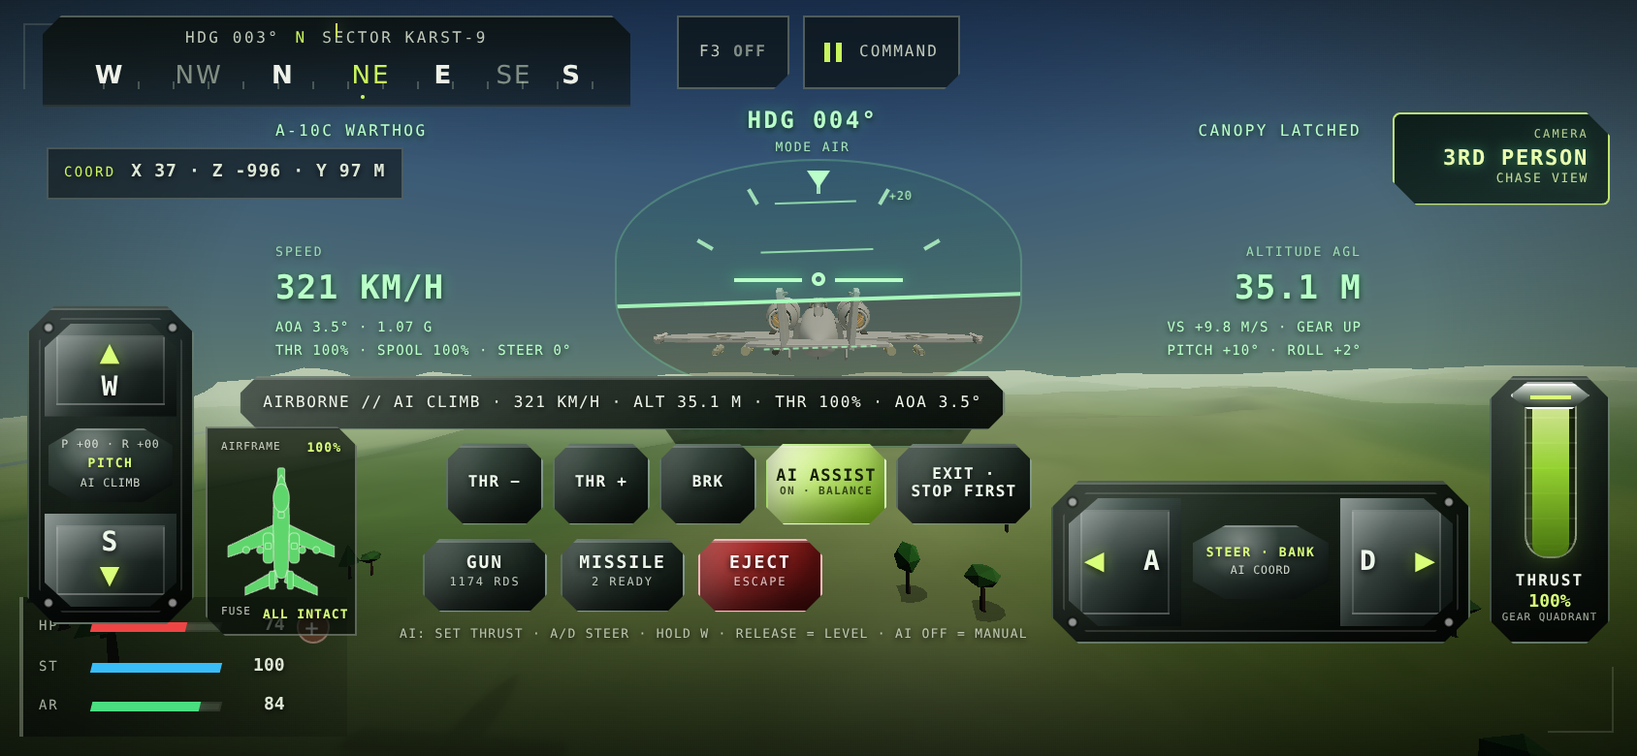
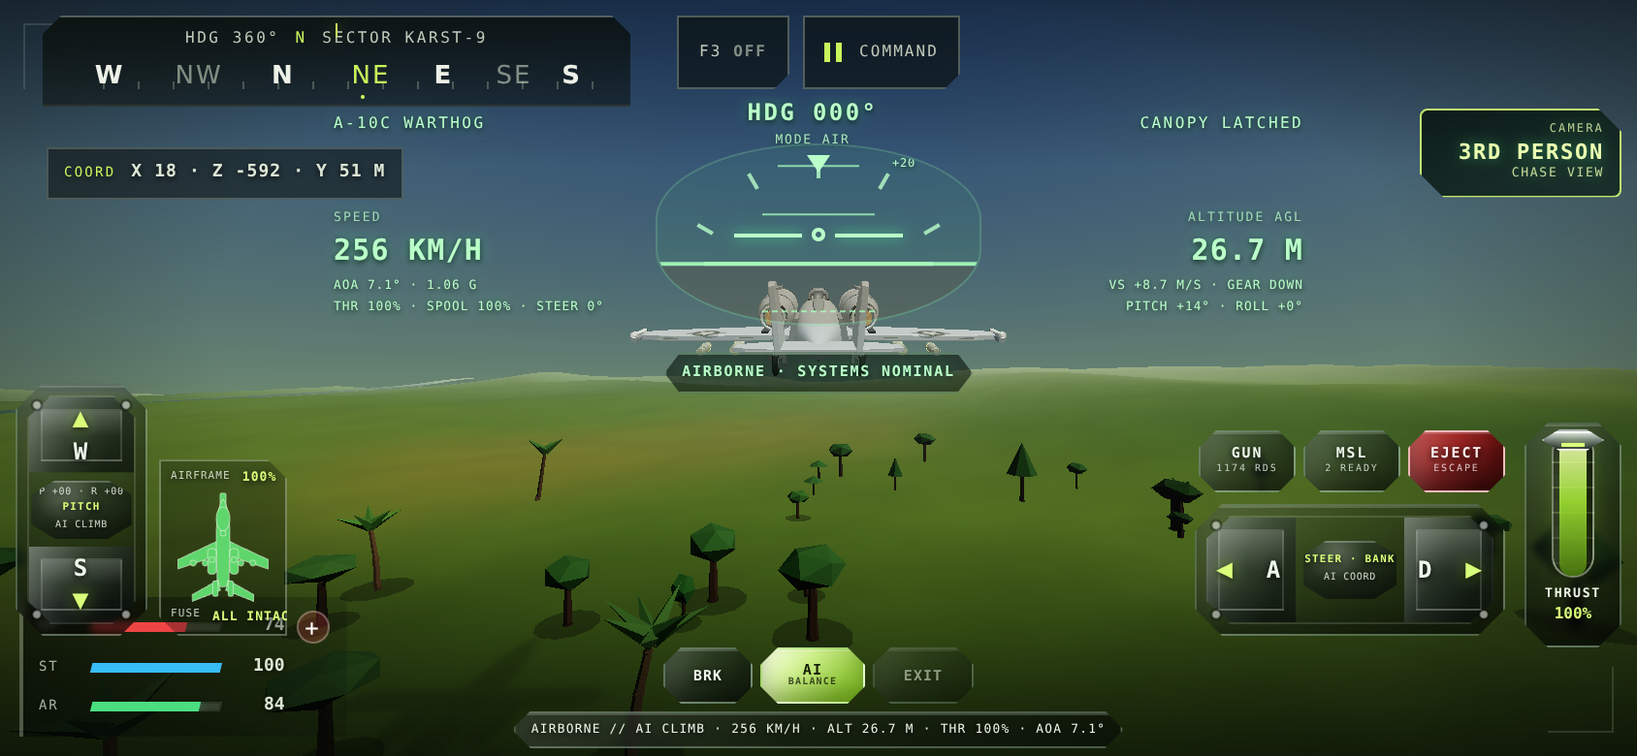
Slim aircraft controls for dogfights

diff --git a/game/index.html b/game/index.html
@@ -2026,7 +2026,7 @@
     .aircraft-hud-centre small { font-size: 6.5px; letter-spacing: .14em; opacity: .86; }
     .aircraft-attitude {
       position: absolute; left: 50%; top: 28px; transform: translateX(-50%);
-      width: 250px; height: 154px; overflow: hidden; border: 1px solid rgba(145,255,180,.28);
+      width: 224px; height: 134px; overflow: hidden; border: 1px solid rgba(145,255,180,.24);
       border-radius: 50% / 42%; background: rgba(0,20,8,.12);
     }
     .aircraft-horizon {
@@ -2064,9 +2064,7 @@
     .jet-flight.is-stall .aircraft-hud { color: #fecaca; text-shadow: 0 0 8px rgba(255,80,80,.6), 0 1px 3px rgba(0,0,0,.9); }
     .jet-flight.is-stall .aircraft-attitude { border-color: rgba(248,113,113,.9); }
     .aircraft-touch-controls {
-      position: absolute; left: 0; right: 0; bottom: calc(72px + var(--safe-bottom));
-      display: flex; align-items: flex-end; justify-content: space-between;
-      padding: 0 calc(14px + var(--safe-left)) 0 calc(14px + var(--safe-right)); gap: 10px;
+      position: absolute; inset: 0; display: block; padding: 0; pointer-events: none;
     }
     /* Heavy cockpit rocker clusters: machined dark housings, smoked-glass
        paddles and an octagonal status hub. The class names remain the
@@ -2095,8 +2093,14 @@
         radial-gradient(circle at 10px calc(100% - 10px), rgba(255,255,255,.85) 0 1.5px, rgba(0,0,0,.6) 2.5px, transparent 3.6px),
         radial-gradient(circle at calc(100% - 10px) calc(100% - 10px), rgba(255,255,255,.85) 0 1.5px, rgba(0,0,0,.6) 2.5px, transparent 3.6px);
     }
-    .flight-tri-pad.is-pitch { flex-direction: column; width: 104px; margin-bottom: 10px; }
-    .flight-tri-pad.is-roll { flex-direction: row; width: 244px; }
+    .flight-tri-pad.is-pitch {
+      position: absolute; left: calc(16px + var(--safe-left)); bottom: calc(96px + var(--safe-bottom));
+      flex-direction: column; width: 88px; margin: 0;
+    }
+    .flight-tri-pad.is-roll {
+      position: absolute; right: calc(104px + var(--safe-right)); bottom: calc(96px + var(--safe-bottom));
+      flex-direction: row; width: 204px;
+    }
     .flight-tri {
       position: relative; z-index: 1; width: 80px; height: 58px; border: 0; padding: 0; flex: 0 0 auto;
       pointer-events: auto; touch-action: none; user-select: none; -webkit-user-select: none; cursor: pointer;
@@ -2150,9 +2154,10 @@
     .flight-tri-pad.is-roll .flight-tri-centre { min-width: 78px; }
     .flight-tri-centre label { color: #d9ff7a; font-size: 6.5px; font-weight: 700; letter-spacing: .12em; white-space: nowrap; }
     .flight-tri-centre small { font-size: 5.8px; letter-spacing: .07em; opacity: .84; white-space: nowrap; }
-    .aircraft-bottom-console { flex: 1 1 auto; min-width: 0; display: flex; flex-direction: column; align-items: center; gap: 7px; }
+    .aircraft-bottom-console { display: contents; }
     .flight-throttle {
-      position: relative; width: 68px; height: 160px; flex: 0 0 auto; pointer-events: auto; touch-action: none;
+      position: absolute; right: calc(16px + var(--safe-right)); bottom: calc(88px + var(--safe-bottom));
+      width: 62px; height: 142px; flex: 0 0 auto; pointer-events: auto; touch-action: none;
       user-select: none; -webkit-user-select: none; cursor: ns-resize; display: flex; flex-direction: column; align-items: center;
       padding: 10px 7px 7px; box-sizing: border-box;
       border: 1px solid rgba(214,255,222,.28);
@@ -2195,7 +2200,8 @@
     body.aircraft-seated .crosshair,
     body.aircraft-seated .hud-hints { display: none !important; }
     .jet-telemetry {
-      max-width: 100%; padding: 7px 11px; overflow: hidden; text-overflow: ellipsis; white-space: nowrap;
+      position: absolute; left: 50%; bottom: calc(14px + var(--safe-bottom)); transform: translateX(-50%);
+      max-width: min(520px, 44vw); padding: 6px 10px; overflow: hidden; text-overflow: ellipsis; white-space: nowrap;
       border: 1px solid rgba(214,255,222,.3); color: #eef5e8;
       background:
         linear-gradient(115deg, rgba(255,255,255,.16), rgba(255,255,255,.03) 42%, rgba(0,0,0,.22)),
@@ -2206,9 +2212,12 @@
       font-size: 8px; letter-spacing: .1em; text-shadow: 0 1px 3px rgba(0,0,0,.85);
     }
     .jet-flight.is-stall .jet-telemetry { border-color: rgba(248,113,113,.9); color: #fecaca; }
-    .jet-flight-buttons { display: flex; flex-wrap: wrap; justify-content: center; gap: 7px; }
+    .jet-flight-buttons {
+      position: absolute; left: 50%; bottom: calc(46px + var(--safe-bottom)); transform: translateX(-50%);
+      display: flex; flex-wrap: nowrap; justify-content: center; gap: 6px; pointer-events: none;
+    }
     .jet-flight-buttons button {
-      min-width: 64px; min-height: 47px; padding: 7px 10px;
+      min-width: 56px; min-height: 36px; padding: 6px 8px;
       display: flex; flex-direction: column; align-items: center; justify-content: center; gap: 1px;
       border: 1px solid rgba(214,255,222,.36); border-radius: 4px;
       background:
@@ -2226,13 +2235,14 @@
     .jet-flight-buttons button strong { font-size: 8.5px; line-height: 1; }
     .jet-flight-buttons button small { font-size: 5.6px; line-height: 1; opacity: .78; }
     .jet-flight-buttons button.is-assist { min-width: 78px; }
+    .jet-flight-buttons button.is-blocked { opacity: .52; }
     .jet-flight-buttons button.is-assist.is-on {
       background:
         linear-gradient(115deg, rgba(255,255,255,.58), rgba(255,255,255,.1) 42%, rgba(55,92,10,.16) 78%),
         linear-gradient(150deg, #eaffb0, #84cc16);
       color: #162006; text-shadow: none;
     }
-    .jet-flight-hint { color: rgba(238,247,228,.72); font-size: 6.5px; letter-spacing: .1em; text-align: center; text-shadow: 0 1px 3px rgba(0,0,0,.9); }
+    .jet-flight-hint { display: none; }
 
     /* Aircraft systems added after the triangle-control pass. These are
        intentionally angular military-console controls (anti-PS2-emulator):
@@ -2264,8 +2274,8 @@
     .aircraft-damage-diagram {
       /* Bottom-left field position: immediately right of the W/S pitch
          triangles, above the seated pilot's lower console. */
-      position: absolute; left: calc(126px + var(--safe-left)); bottom: calc(78px + var(--safe-bottom)); z-index: 3;
-      width: 92px; padding: 6px 7px 5px; pointer-events: none;
+      position: absolute; left: calc(116px + var(--safe-left)); bottom: calc(96px + var(--safe-bottom)); z-index: 3;
+      width: 84px; padding: 6px 7px 5px; pointer-events: none;
       border: 1px solid rgba(238,247,228,.34); background: rgba(4,10,7,.68); color: #eef5e8;
       font-family: var(--mono); clip-path: polygon(0 0, calc(100% - 10px) 0, 100% 10px, 100% 100%, 10px 100%, 0 calc(100% - 10px));
       text-shadow: 0 1px 3px rgba(0,0,0,.9);
@@ -2278,9 +2288,12 @@
     .aircraft-damage-diagram footer b { font-size: 6.5px; letter-spacing: .08em; color: #d9ff7a; white-space: nowrap; }
     .aircraft-damage-diagram svg { display: block; width: 100%; height: 86px; margin: 2px 0; overflow: visible; }
     .aircraft-damage-diagram svg [fill] { stroke: rgba(238,247,228,.54); stroke-width: 1.15; stroke-linejoin: round; }
-    .jet-weapon-buttons { display: flex; gap: 7px; }
+    .jet-weapon-buttons {
+      position: absolute; right: calc(104px + var(--safe-right)); bottom: calc(190px + var(--safe-bottom));
+      display: flex; gap: 6px; pointer-events: none;
+    }
     .jet-weapon-buttons button {
-      min-width: 76px; min-height: 42px; padding: 6px 9px;
+      min-width: 62px; min-height: 36px; padding: 5px 7px;
       display: flex; flex-direction: column; align-items: center; justify-content: center; gap: 1px;
       border: 1px solid rgba(214,255,222,.36); border-radius: 4px;
       background:
@@ -2322,28 +2335,113 @@
     @media (max-height: 500px) {
       .hud-coordinates { top: calc(76px + var(--safe-top)); }
       .jet-drive-btn { bottom: calc(78px + var(--safe-bottom)); }
-      .aircraft-hud { top: calc(54px + var(--safe-top)); width: min(560px, calc(100vw - 282px)); height: 178px; }
-      .aircraft-attitude { width: 210px; height: 124px; }
-      .aircraft-touch-controls { bottom: calc(58px + var(--safe-bottom)); }
-      .flight-tri-pad { padding: 8px; gap: 6px; }
-      .flight-tri { width: 68px; height: 48px; }
-      .flight-tri.is-a, .flight-tri.is-d { width: 58px; height: 66px; }
-      .flight-tri-pad.is-pitch { width: 86px; }
-      .flight-tri-pad.is-roll { width: 216px; }
-      .flight-tri-centre { min-width: 58px; min-height: 38px; }
-      .flight-tri-pad.is-roll .flight-tri-centre { min-width: 64px; }
-      .flight-throttle { width: 62px; height: 138px; padding-top: 8px; }
-      .flight-throttle-track { height: 88px; }
-      .jet-flight-buttons { align-self: flex-end; flex-wrap: nowrap; gap: 5px; }
-      .jet-flight-buttons button { flex: 0 0 50px; min-width: 50px; min-height: 42px; padding: 6px 4px; font-size: 8px; line-height: 1.05; text-align: center; }
-      .jet-flight-buttons button.is-assist { flex-basis: 62px; min-width: 62px; }
-      .jet-flight-buttons button:last-child { flex-basis: 70px; min-width: 70px; }
-      .jet-flight-hint { align-self: flex-end; width: min(326px, 100%); text-align: left; }
-      .aircraft-camera-toggle { top: calc(58px + var(--safe-top)); width: 112px; min-height: 46px; }
-      .aircraft-advisory { top: 154px; }
-      .aircraft-damage-diagram { left: calc(106px + var(--safe-left)); bottom: calc(62px + var(--safe-bottom)); width: 78px; }
-      .aircraft-damage-diagram svg { height: 72px; }
-      .jet-weapon-buttons button { min-width: 64px; min-height: 38px; padding: 5px 7px; }
+      /* Mobile dogfight layout: every control is pushed to a screen edge,
+         the centre/lower-centre picture stays open, and the glass is thin
+         enough to read terrain/targets through it while the primary W/S
+         and A/D paddles keep broad thumb faces. */
+      .aircraft-hud { top: calc(50px + var(--safe-top)); width: min(500px, calc(100vw - 300px)); height: 150px; }
+      .aircraft-attitude { width: 168px; height: 94px; top: 24px; background: rgba(0,20,8,.05); }
+      .aircraft-readout { top: 58px; min-width: 96px; }
+      .aircraft-readout b { font-size: 15px; }
+      .aircraft-readout span { font-size: 6.4px; }
+      .aircraft-touch-controls { inset: 0; }
+      .flight-tri-pad {
+        padding: 6px; gap: 4px;
+        background:
+          linear-gradient(135deg, rgba(255,255,255,.14), rgba(255,255,255,.025) 38%, rgba(0,0,0,.16) 80%),
+          linear-gradient(160deg, rgba(18,30,26,.34), rgba(4,9,8,.46));
+        box-shadow: inset 0 1px 0 rgba(255,255,255,.18), inset 0 -8px 16px rgba(0,0,0,.28), 0 8px 20px rgba(0,0,0,.24);
+        backdrop-filter: blur(2px) saturate(1.08); -webkit-backdrop-filter: blur(2px) saturate(1.08);
+      }
+      .flight-tri {
+        width: 54px; height: 39px; font-size: 12px;
+        background:
+          linear-gradient(115deg, rgba(255,255,255,.3), rgba(255,255,255,.05) 42%, rgba(0,0,0,.16) 76%),
+          linear-gradient(160deg, rgba(62,80,74,.46), rgba(10,18,15,.58));
+        filter: drop-shadow(0 4px 7px rgba(0,0,0,.3));
+      }
+      .flight-tri::before { font-size: 14px; }
+      .flight-tri.is-w::before { top: 4px; }
+      .flight-tri.is-w span { bottom: 5px; }
+      .flight-tri.is-s::before { bottom: 4px; }
+      .flight-tri.is-s span { top: 5px; }
+      .flight-tri.is-a, .flight-tri.is-d { width: 46px; height: 54px; }
+      .flight-tri.is-a::before { left: 5px; }
+      .flight-tri.is-a span { right: 7px; }
+      .flight-tri.is-d::before { right: 5px; }
+      .flight-tri.is-d span { left: 7px; }
+      .flight-tri-pad.is-pitch {
+        left: calc(8px + var(--safe-left)); bottom: calc(62px + var(--safe-bottom)); width: 68px;
+      }
+      .flight-tri-pad.is-roll {
+        right: calc(68px + var(--safe-right)); bottom: calc(62px + var(--safe-bottom)); width: 160px;
+      }
+      .flight-tri-centre {
+        min-width: 50px; min-height: 30px; padding: 3px 4px;
+        background:
+          radial-gradient(circle at 35% 22%, rgba(255,255,255,.22), transparent 40%),
+          linear-gradient(150deg, rgba(66,84,76,.42), rgba(7,13,11,.54));
+      }
+      .flight-tri-pad.is-roll .flight-tri-centre { min-width: 48px; }
+      .flight-tri-centre label { font-size: 5.4px; }
+      .flight-tri-centre small { font-size: 5px; }
+      .flight-throttle {
+        right: calc(8px + var(--safe-right)); bottom: calc(56px + var(--safe-bottom));
+        width: 50px; height: 116px; padding: 7px 5px 5px;
+        background:
+          linear-gradient(135deg, rgba(255,255,255,.14), rgba(255,255,255,.025) 38%, rgba(0,0,0,.16) 80%),
+          linear-gradient(165deg, rgba(20,34,29,.36), rgba(4,9,8,.48));
+        box-shadow: inset 0 1px 0 rgba(255,255,255,.18), inset 0 -8px 15px rgba(0,0,0,.28), 0 8px 20px rgba(0,0,0,.24);
+        backdrop-filter: blur(2px) saturate(1.08); -webkit-backdrop-filter: blur(2px) saturate(1.08);
+      }
+      .flight-throttle-track { width: 22px; height: 72px; }
+      .flight-throttle-track em { left: -6px; right: -6px; height: 11px; }
+      .flight-throttle label { margin-top: 4px; font-size: 6.6px; }
+      .flight-throttle b { font-size: 8px; }
+      .flight-throttle small { display: none; }
+      .jet-telemetry {
+        bottom: calc(4px + var(--safe-bottom)); max-width: min(360px, 44vw); padding: 4px 8px;
+        font-size: 6.4px; background:
+          linear-gradient(115deg, rgba(255,255,255,.1), rgba(255,255,255,.02) 45%, rgba(0,0,0,.14)),
+          linear-gradient(160deg, rgba(12,23,19,.34), rgba(4,9,7,.46));
+        backdrop-filter: blur(2px); -webkit-backdrop-filter: blur(2px);
+      }
+      .jet-flight-buttons {
+        bottom: calc(27px + var(--safe-bottom)); flex-wrap: nowrap; gap: 4px;
+      }
+      .jet-flight-buttons button {
+        flex: 0 0 46px; min-width: 46px; min-height: 29px; padding: 4px; font-size: 7.4px; line-height: 1.05; text-align: center;
+        background:
+          linear-gradient(115deg, rgba(255,255,255,.18), rgba(255,255,255,.03) 42%, rgba(0,0,0,.14) 78%),
+          linear-gradient(160deg, rgba(42,58,52,.42), rgba(8,15,12,.56));
+        box-shadow: inset 0 1px 0 rgba(255,255,255,.17), inset 0 -6px 10px rgba(0,0,0,.24), 0 5px 12px rgba(0,0,0,.2);
+        backdrop-filter: blur(2px); -webkit-backdrop-filter: blur(2px);
+      }
+      .jet-flight-buttons button:nth-child(-n+2) { display: none; } /* gear quadrant already owns thrust on mobile */
+      .jet-flight-buttons button.is-assist { flex-basis: 54px; min-width: 54px; }
+      .jet-flight-buttons button:last-child { flex-basis: 52px; min-width: 52px; }
+      .jet-flight-buttons button strong { font-size: 7.6px; }
+      .jet-flight-buttons button small { font-size: 5px; }
+      .aircraft-camera-toggle { top: calc(56px + var(--safe-top)); right: calc(8px + var(--safe-right)); width: 104px; min-height: 42px; padding: 6px 8px; }
+      .aircraft-advisory { top: 132px; padding: 4px 8px; }
+      .aircraft-damage-diagram {
+        left: calc(82px + var(--safe-left)); bottom: calc(62px + var(--safe-bottom)); width: 66px; padding: 4px 5px;
+        background: rgba(4,10,7,.3);
+      }
+      .aircraft-damage-diagram svg { height: 58px; }
+      .jet-weapon-buttons {
+        right: calc(68px + var(--safe-right)); bottom: calc(136px + var(--safe-bottom)); gap: 4px;
+      }
+      .jet-weapon-buttons button {
+        min-width: 50px; min-height: 32px; padding: 4px;
+        background:
+          linear-gradient(115deg, rgba(255,255,255,.18), rgba(255,255,255,.03) 42%, rgba(0,0,0,.14) 78%),
+          linear-gradient(160deg, rgba(42,58,52,.42), rgba(8,15,12,.56));
+        box-shadow: inset 0 1px 0 rgba(255,255,255,.17), inset 0 -6px 10px rgba(0,0,0,.24), 0 5px 12px rgba(0,0,0,.2);
+        backdrop-filter: blur(2px); -webkit-backdrop-filter: blur(2px);
+      }
+      .jet-weapon-buttons button strong { font-size: 7.4px; }
+      .jet-weapon-buttons button small { font-size: 5px; }
     }
 </style>
 </head>

diff --git a/game/src/ironveil.jsx b/game/src/ironveil.jsx
@@ -1145,7 +1145,7 @@
           writeText(throttleValueRef, `${Math.round(telemetry.throttle)}%`);
           const assistOn = (d.aircraftAssist ?? (inputState.flightAssist ? 1 : 0)) ? true : false;
           if (assistButtonRef.current) assistButtonRef.current.classList.toggle("is-on", assistOn);
-          writeText(assistStateRef, assistOn ? "ON · BALANCE" : "OFF · MANUAL");
+          writeText(assistStateRef, assistOn ? "BALANCE" : "MANUAL");
           writeText(assistModeRef, assistOn ? (d.aircraftAssistMode || "AI BALANCE") : "MANUAL");
           writeText(modeRef, `MODE ${d.aircraftMode || d.jetGroundMode || (d.jetAirborne ? "AIR" : "TAXI")}`);
           writeText(spoolRef, `THR ${Math.round(telemetry.throttle)}% · SPOOL ${Math.round(d.jetSpoolPct || 0)}% · STEER ${Math.round(d.jetSteerDeg || 0)}°`);
@@ -1184,7 +1184,8 @@
           }
           writeText(missileValueRef, !d.aircraftMissilesOperational ? "OFFLINE" : `${d.aircraftMissiles || 0} READY`);
           writeText(telemetryRef, `${d.jetMessage || telemetry.name} · ${telemetry.speed} KM/H · ALT ${telemetry.altitude} M · THR ${telemetry.throttle}% · AOA ${telemetry.aoa}°`);
-          writeText(exitRef, d.jetCanExit ? "EXIT" : "EXIT · STOP FIRST");
+          writeText(exitRef, "EXIT");
+          if (exitRef.current) exitRef.current.classList.toggle("is-blocked", !d.jetCanExit);
           raf = window.requestAnimationFrame(paint);
         };
         paint();
@@ -1290,12 +1291,12 @@
                   <button type="button" {...hold(() => { inputState.flightThrottleTarget = null; inputState.jetThrottleDelta = -1; }, () => { inputState.jetThrottleDelta = 0; })} aria-label="Decrease thrust">THR −</button>
                   <button type="button" {...hold(() => { inputState.flightThrottleTarget = null; inputState.jetThrottleDelta = 1; }, () => { inputState.jetThrottleDelta = 0; })} aria-label="Increase thrust">THR +</button>
                   <button type="button" {...hold(() => { inputState.jetBrake = true; }, () => { inputState.jetBrake = false; })} aria-label="Hold brakes on the ground or airbrake in flight">BRK</button>
-                  <button ref={assistButtonRef} type="button" className="is-assist is-on" onPointerDown={toggleAssist} aria-label="Toggle AI flight assist"><strong>AI ASSIST</strong><small ref={assistStateRef}>ON · BALANCE</small></button>
+                  <button ref={assistButtonRef} type="button" className="is-assist is-on" onPointerDown={toggleAssist} aria-label="Toggle AI flight assist"><strong>AI</strong><small ref={assistStateRef}>BALANCE</small></button>
                   <button ref={exitRef} type="button" onPointerDown={queue("exit")} onClick={queue("exit")} aria-label="Exit the aircraft">EXIT</button>
                 </div>
                 <div className="jet-weapon-buttons">
                   <button ref={gunButtonRef} type="button" {...hold(() => { inputState.aircraftGunHeld = true; }, () => { inputState.aircraftGunHeld = false; })} aria-label="Hold to fire the installed forward gun"><strong>GUN</strong><small ref={gunValueRef}>1174 RDS</small></button>
-                  <button ref={missileButtonRef} type="button" onPointerDown={launchMissile} onClick={launchMissile} aria-label="Launch a guided missile"><strong>MISSILE</strong><small ref={missileValueRef}>2 READY</small></button>
+                  <button ref={missileButtonRef} type="button" onPointerDown={launchMissile} onClick={launchMissile} aria-label="Launch a guided missile"><strong>MSL</strong><small ref={missileValueRef}>2 READY</small></button>
                   <button type="button" className="is-eject" onPointerDown={queue("eject")} onClick={queue("eject")} aria-label="Eject from the aircraft"><strong>EJECT</strong><small>ESCAPE</small></button>
                 </div>
                 <div className="jet-flight-hint">AI: SET THRUST · A/D STEER · HOLD W · RELEASE = LEVEL · AI OFF = MANUAL</div>

diff --git a/README.md b/README.md
@@ -439,7 +439,7 @@ Real gameplay captures from this round:
 - ![Aircraft systems — ejection and parachute descent](screenshots/aircraft-systems-parachute.png)
 - ![Aircraft systems — death and respawn overlay](screenshots/aircraft-systems-death.png)
 
-## AI flight assist, heavy glass controls and projected-shadow round
+## AI flight assist, slim glass dogfight controls and projected-shadow round
 
 - **The fake aircraft disc is gone.** The old circular `jetBlob` was parented
   to the Warthog at local Y=0.05, so it travelled with the airframe instead
@@ -449,7 +449,7 @@ Real gameplay captures from this round:
   the quad is laid on the local terrain slope, and its opacity/spread follow
   altitude (fully faded by about 88 m). There is no shadow-map render target
   and no dark circle attached underneath the jet in flight.
-- **AI copilot is on by default.** The cockpit **AI ASSIST** button (or the
+- **AI copilot is on by default.** The compact cockpit **AI** button (or the
   `L` key) toggles it. On the ground it behaves like a taxi-game stability
   layer: steering is direct at parking speed, progressively calmer as the
   roll builds, and a held W produces a repeatable rotation — but it never
@@ -467,6 +467,18 @@ Real gameplay captures from this round:
   moving metal handle. The bottom weapons/flight console uses the same
   smoked-glass/metal treatment, and the left hub now reads the live AI mode
   (`AI TAXI`, `AI ROTATE`, `AI CLIMB`, `AI BALANCE`, `AI LAND`, or `MANUAL`).
+- **Mobile dogfight spacing pass:** the heavy hardware was slimmed and
+  stretched away from the centre instead of sitting as one fat console.
+  W/S now hugs the far-left edge, A/D and the GUN/MSL/EJECT stack sit under
+  the right thumb, and the narrower gear quadrant hugs the far-right edge.
+  On short landscape screens the permanent hint and duplicate THR −/+ keys
+  are hidden (the quadrant already owns thrust), leaving only compact
+  BRK / AI / EXIT keys and a one-line telemetry strip against the bottom
+  edge. The attitude display was reduced to 168×94 px, and the housings use
+  lower-alpha smoked glass with only 2 px backdrop blur so terrain and
+  targets remain readable through them. At 844×390 the measured pitch pad
+  starts at x=8, the roll pad starts at x=616, the throttle ends at x=836,
+  the utility row does not begin until y=334, and telemetry sits at y=367.
 - **Browser verification:** parked projected-shadow opacity 0.375; AI
   button toggled MANUAL and back; thrust alone reached 146 km/h without
   liftoff; held W rotated at 190 km/h without a stall; after the climb was
@@ -474,11 +486,14 @@ Real gameplay captures from this round:
   climbing through 24.3 m at +9.0 m/s; a D command produced a bounded
   51.2° bank target and release returned roll below 10°; chase camera and
   the redesigned console remained error-free with zero safety rescues.
-  Vercel remains **paused/unpublished**.
+  The final slim-layout capture then repeated the edge/centre geometry
+  checks, rotated at 198 km/h, reached 18.3 m hands-off in AI CLIMB, and
+  continued to 31.1 m / 266 km/h in chase view with no page errors or
+  safety rescues. Vercel remains **paused/unpublished**.
 
 Real gameplay captures from this round:
 
 - ![Projected Warthog shadow on the strip](screenshots/aircraft-assist-shadow-external.png)
-- ![Heavy glass flight controls parked](screenshots/aircraft-assist-controls-parked.png)
-- ![AI climb with heavy glass flight controls](screenshots/aircraft-assist-controls-airborne.png)
+- ![Slim edge-spread glass flight controls parked](screenshots/aircraft-assist-controls-parked.png)
+- ![AI climb with slim edge-spread glass flight controls](screenshots/aircraft-assist-controls-airborne.png)
 - ![AI balance in chase view without an attached shadow disc](screenshots/aircraft-assist-shadow-chase.png)

diff --git a/docs/RESOURCE_MAP.md b/docs/RESOURCE_MAP.md
@@ -17,7 +17,7 @@ optimization pass.
 
 | Layer | File(s) | Owns | Resource rule |
 |---|---|---|---|
-| HTML/CSS shell | `game/index.html` | All CSS, mobile HUD/aircraft console layout, safe areas, heavy machined-glass aircraft rocker pads | No webfont/network dependency; system condensed/monospace stacks only |
+| HTML/CSS shell | `game/index.html` | All CSS, mobile HUD/aircraft console layout, safe areas, slim edge-stretched translucent machined-glass aircraft rocker pads | No webfont/network dependency; system condensed/monospace stacks only |
 | React UI/store | `game/src/ironveil.jsx` | Zustand game state, menus, HUD, touch controls, aircraft console, death/respawn | High-frequency values are painted through refs; hidden aircraft HUD polls at about 10 Hz |
 | Three.js world | `game/src/world.js` | Renderer, terrain streaming, player, drones, scatter, sky/climate, FX, aircraft simulation/weapons, cameras | One RAF owner; pooled FX/projectiles; adaptive chunk/BVH budgets |
 | Reusable aircraft model | `game/src/aircraft/aircraft-core.js` | Component IDs, health/armor, derived lift/thrust/control/drag, kinetic-energy collision damage, fire/advisories | No Three.js or Warthog geometry dependency |
@@ -34,8 +34,8 @@ Current production build (`npm --prefix game run build`):
 
 | Asset | Size |
 |---|---:|
-| Main JS | 1,025.00 kB / 294.73 kB gzip |
-| HTML + inline CSS | 111.33 kB / 22.51 kB gzip |
+| Main JS | 1,025.00 kB / 294.71 kB gzip |
+| HTML + inline CSS | 114.48 kB / 22.98 kB gzip |
 | Terrain Worker JS | 6.77 kB |
 | Rust WASM | 112,916 bytes, local/offline |
 | Recorded rifle WAV | about 44 kB, loaded only after audio unlock |
@@ -274,3 +274,10 @@ removal of hot-path full-subtree matrix updates/allocations.
   rotation at 190 km/h, hands-off wings-level climb through 24.3 m,
   bounded bank/release-to-level, chase camera, no application page errors
   and zero safety rescues. Captures are `screenshots/aircraft-assist-*.png`.
+- Slim dogfight-layout follow-up at 844×390: pitch pad x=8/w=68, roll pad
+  x=616/w=160, throttle x=786/w=50 (ends x=836), utility row y=334/h=29,
+  telemetry y=367/h≈19, weapon stack x=618, permanent hint height 0, and
+  attitude display 168×94. Final translucent-control capture rotated at
+  198 km/h, climbed hands-off through 18.3 m, reached chase view at
+  31.1 m / 266 km/h, and again reported no application page errors and
+  zero safety rescues.
